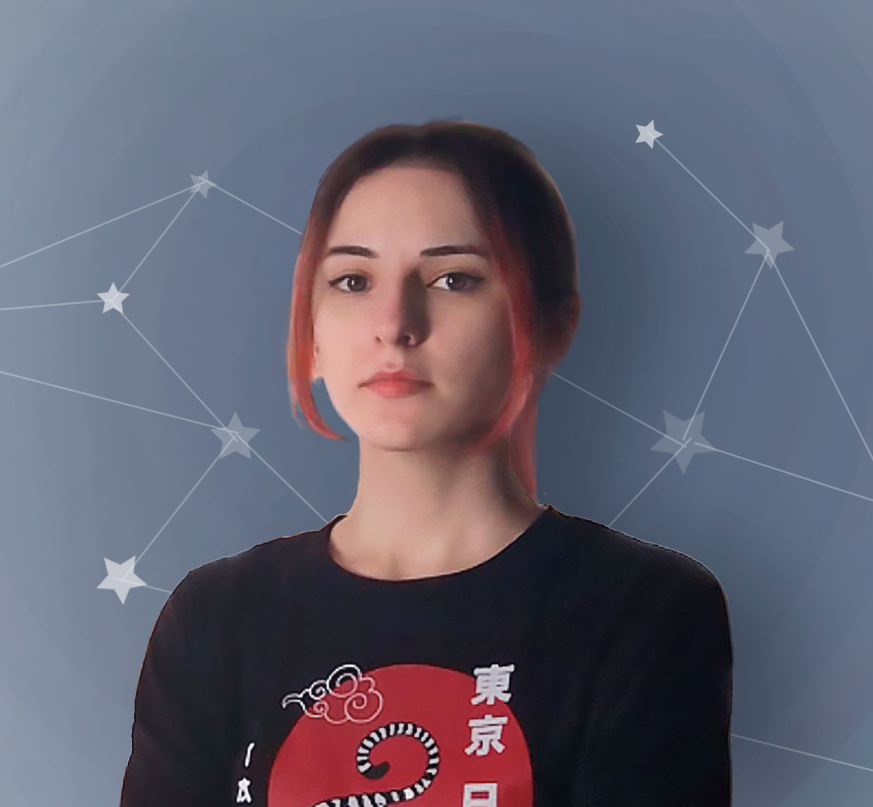
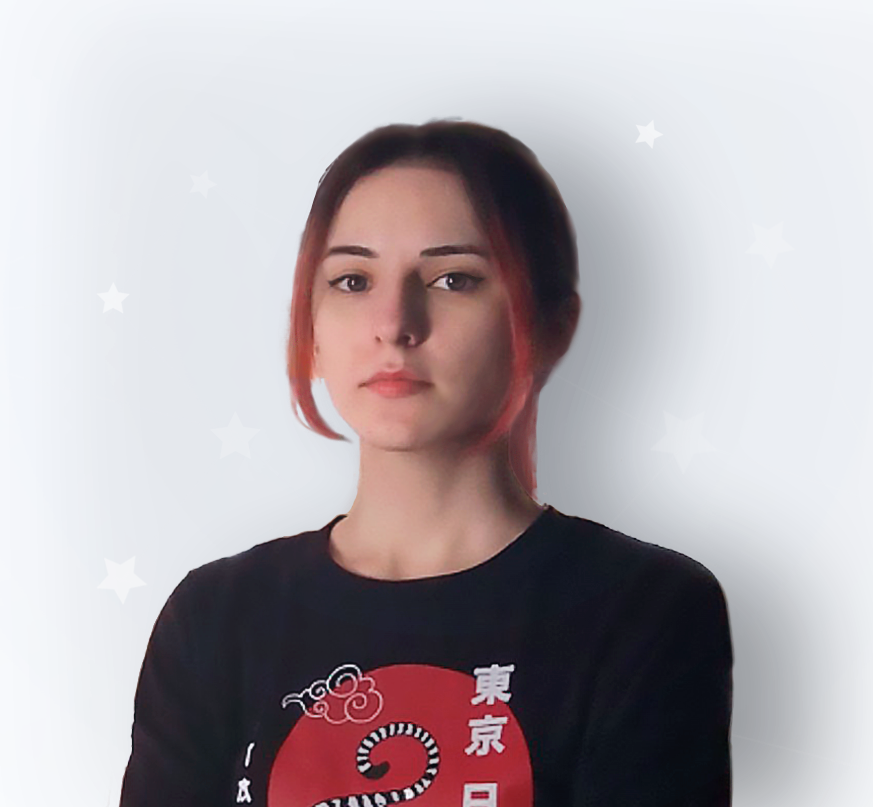
- update sidebar image

diff --git a/src/Layout/Sidebar/styles.module.sass b/src/Layout/Sidebar/styles.module.sass
@@ -73,8 +73,9 @@
     object-position: center
     object-fit: cover
     border-radius: 50%
-    border: 7px solid rgba(255, 255, 255, 0.26)
+    border: 7px solid rgba(124, 149, 171, 0.32)
     filter: grayscale(30%)
+    background-color: rgba(38, 75, 128, 0.32)
 
 .list
     display: block
